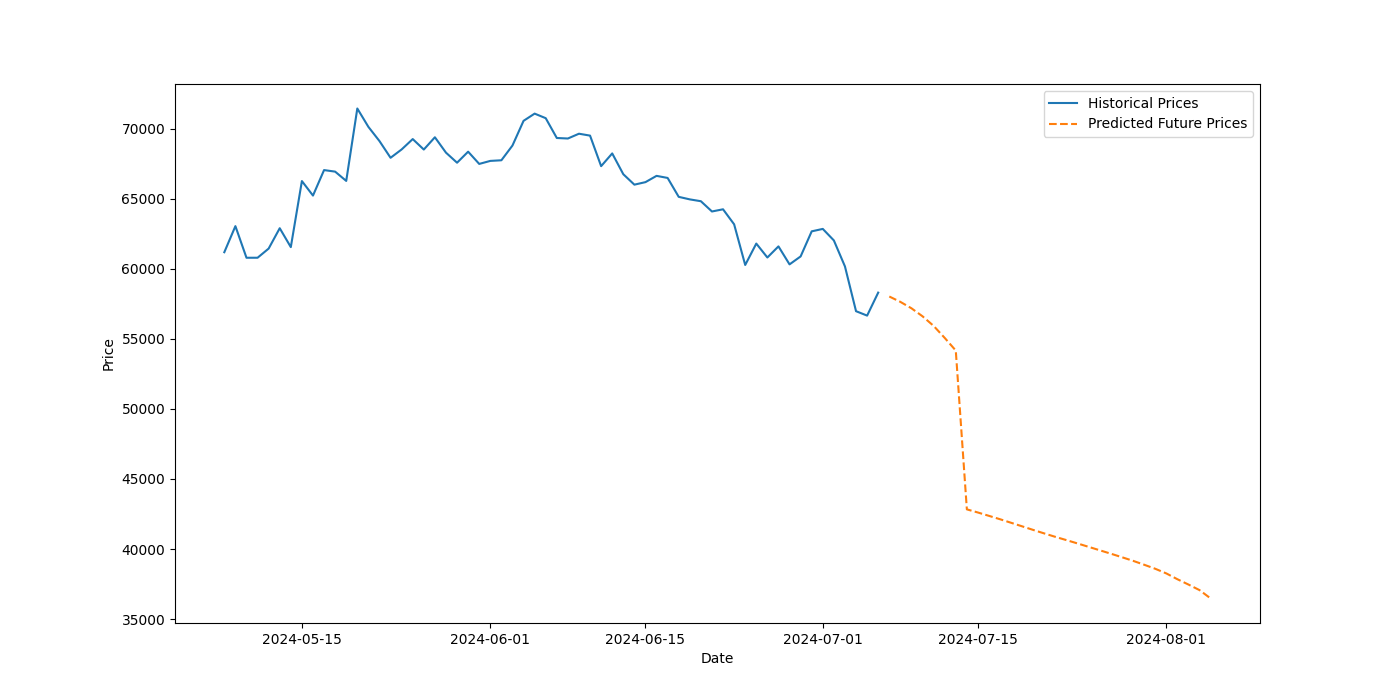
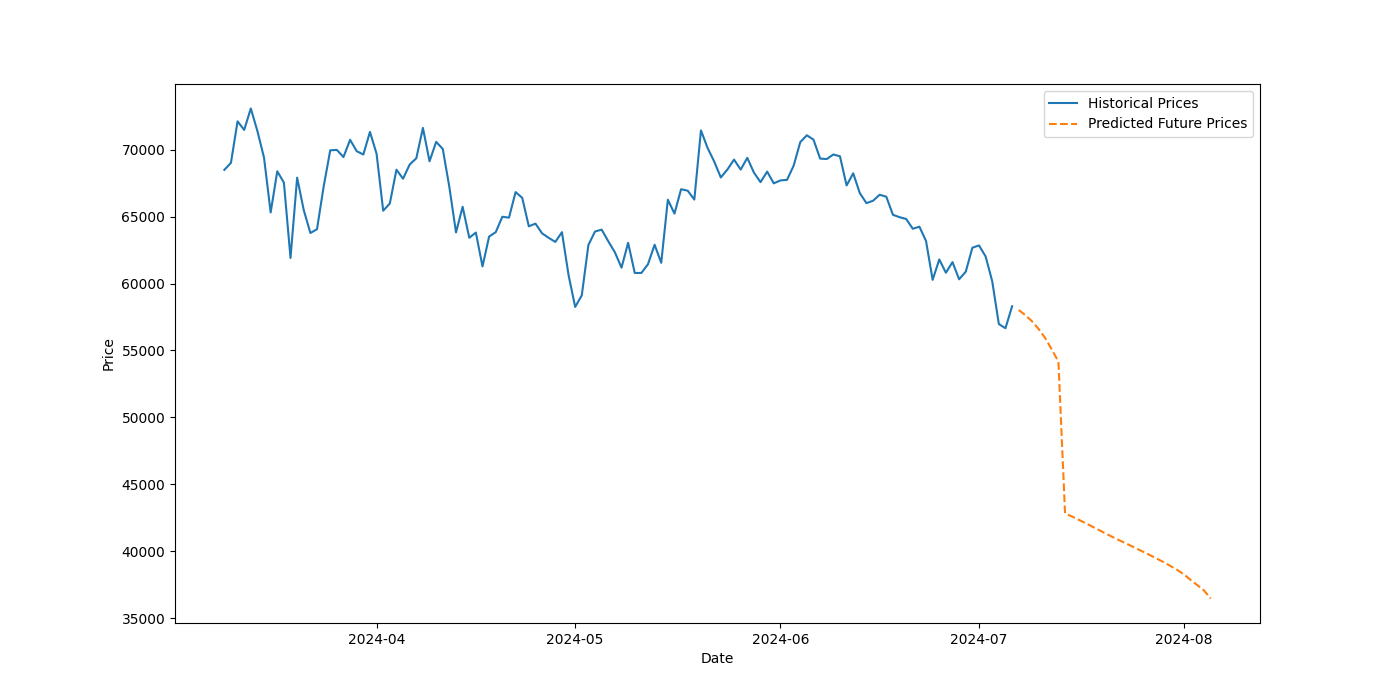
updated plot

diff --git a/src/predict.py b/src/predict.py
@@ -75,8 +75,8 @@ def plot_predictions(_historical_data: np.ndarray, _predictions: np.ndarray, _fu
                      _data: pd.DataFrame) -> None:
     plt.figure(figsize=(14, 7))
 
-    # Keep 60 days of historical data for better visualization
-    plt.plot(_data.index[-60:], _historical_data[-60:], label='Historical Prices')
+    # Keep 120 days of historical data for better visualization
+    plt.plot(_data.index[-120:], _historical_data[-120:], label='Historical Prices')
 
     # Debug: print last date from historical data
     print('Last date from historical data:', _data.index[-1])
